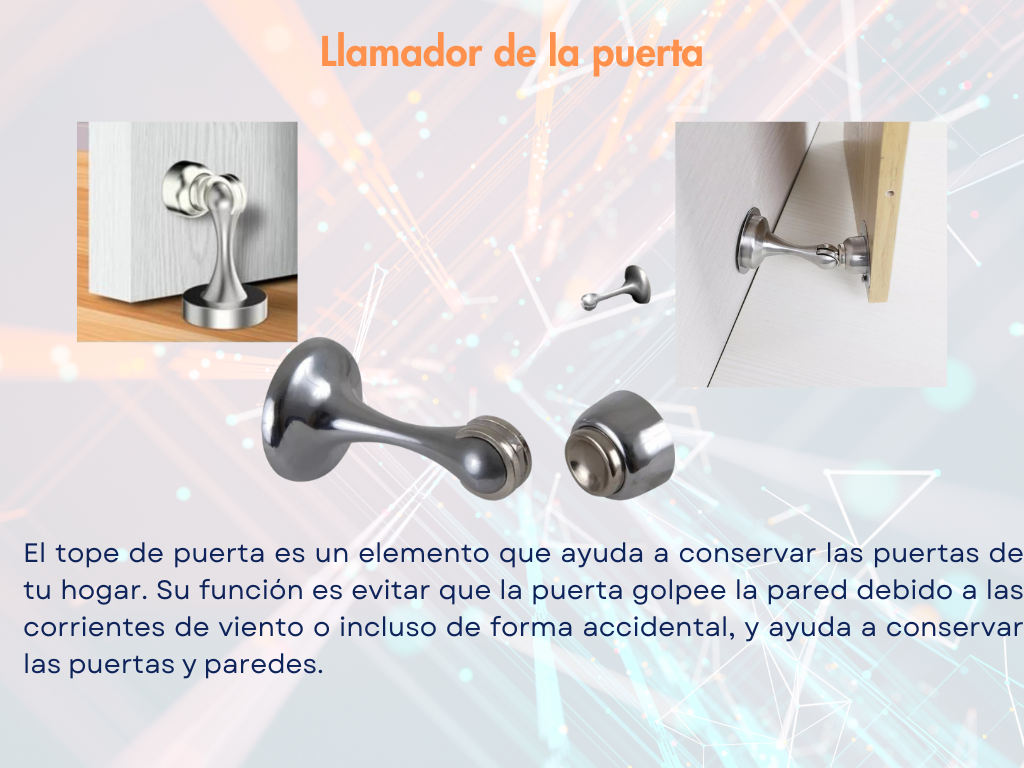
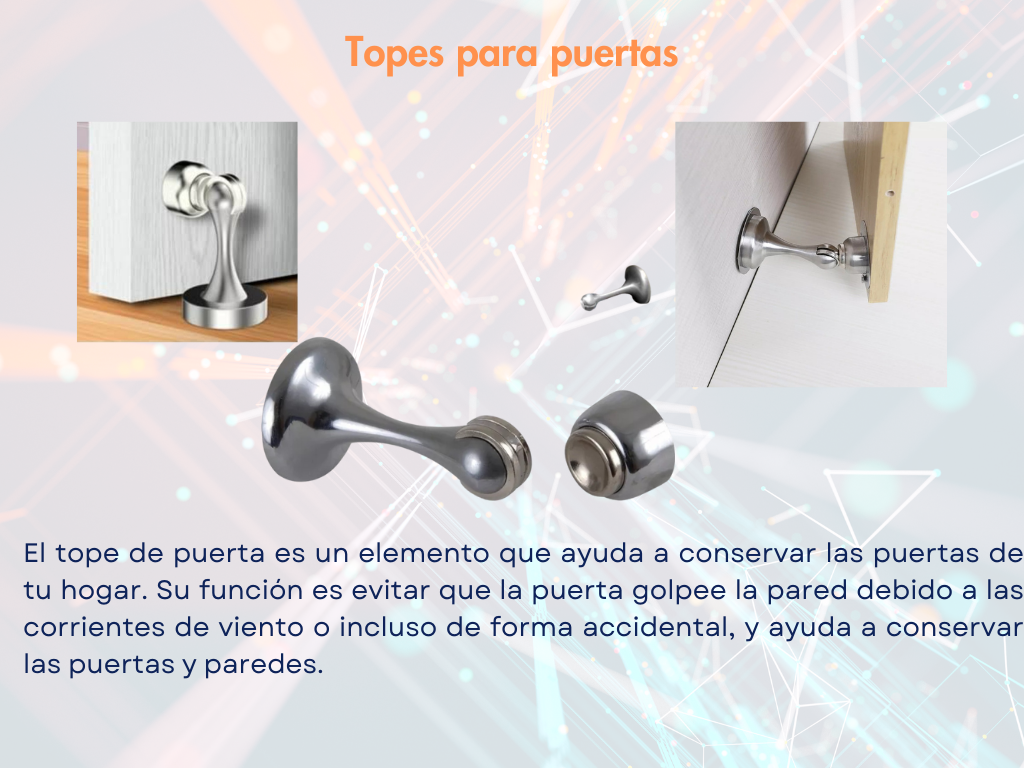
Ajustes

Changed region(s): [[0.3125, 0.0312, 0.6875, 0.0938]]

diff --git a/src/pages/Website/Content/Products/style.scss b/src/pages/Website/Content/Products/style.scss
@@ -27,7 +27,7 @@
         .products-list {
             display: flex;
             justify-content: center;
-            align-items: center;
+            align-items: stretch;
             width: 100%;
             flex-wrap: wrap;
             column-gap: 40px;
@@ -39,6 +39,8 @@
                 border-radius: $component-default-border-radius;
                 box-shadow: $component-default-box-shadow;
                 cursor: pointer;
+                display: flex;
+                flex-direction: column;
 
                 .product-item-image {
                     border-radius: $component-default-border-radius;
@@ -66,9 +68,14 @@
                     display: block;
                     padding: 20px 12px;
                     font-size: 20px;
+                    line-height: 22px;
                     color: $component-text-default-color-1;
-                    text-align: center;
                     transition: 0.2s;
+                    flex: 1;
+                    display: flex;
+                    justify-content: center;
+                    align-items: center;
+                    text-align: center;
                 }
 
                 &:hover {

diff --git a/src/pages/Website/Content/Home/style.scss b/src/pages/Website/Content/Home/style.scss
@@ -48,7 +48,7 @@
     .product-list {
         display: flex;
         justify-content: center;
-        align-items: center;
+        align-items: stretch;
         width: 100%;
         flex-wrap: wrap;
         column-gap: 40px;
@@ -59,6 +59,8 @@
             border-radius: $component-default-border-radius;
             box-shadow: $component-default-box-shadow;
             cursor: pointer;
+            display: flex;
+            flex-direction: column;
 
             .product-item-image {
                 border-radius: $component-default-border-radius;
@@ -86,9 +88,14 @@
                 display: block;
                 padding: 20px 12px;
                 font-size: 20px;
+                line-height: 22px;
                 color: $component-text-default-color-1;
-                text-align: center;
                 transition: 0.2s;
+                flex: 1;
+                display: flex;
+                justify-content: center;
+                align-items: center;
+                text-align: center;
             }
 
             &:hover {

diff --git a/src/translations/ProductsTranslation.js b/src/translations/ProductsTranslation.js
@@ -22,9 +22,9 @@ const ProductsTranslation = {
     },
 
     accessory1: {
-        pt_br: `Batedor de porta`,
-        en_us: `Door knocker`,
-        es_es: `Llamador de la puerta`
+        pt_br: `Prendedor de porta`,
+        en_us: `Door stopper`,
+        es_es: `Topes para puertas`
     },
 
     accessory2: {
